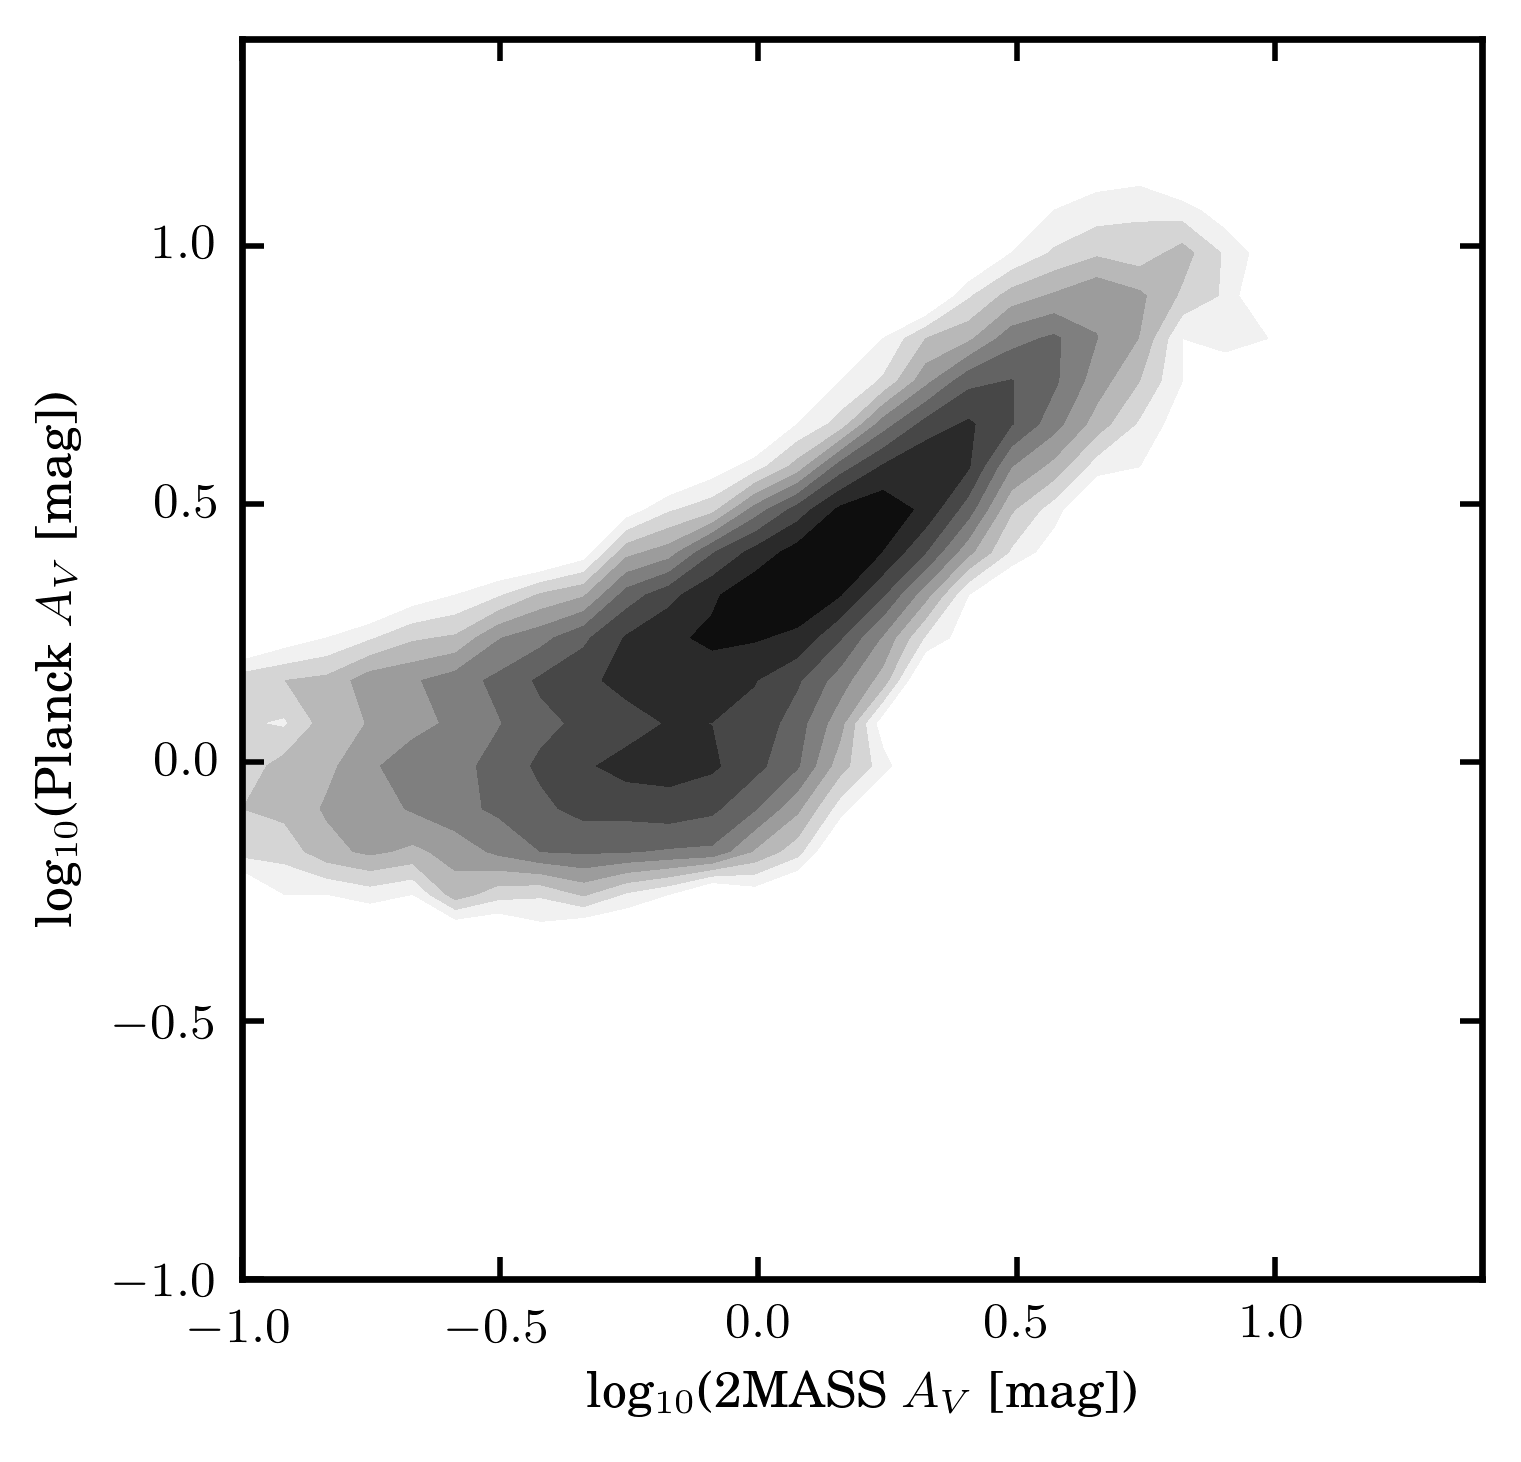
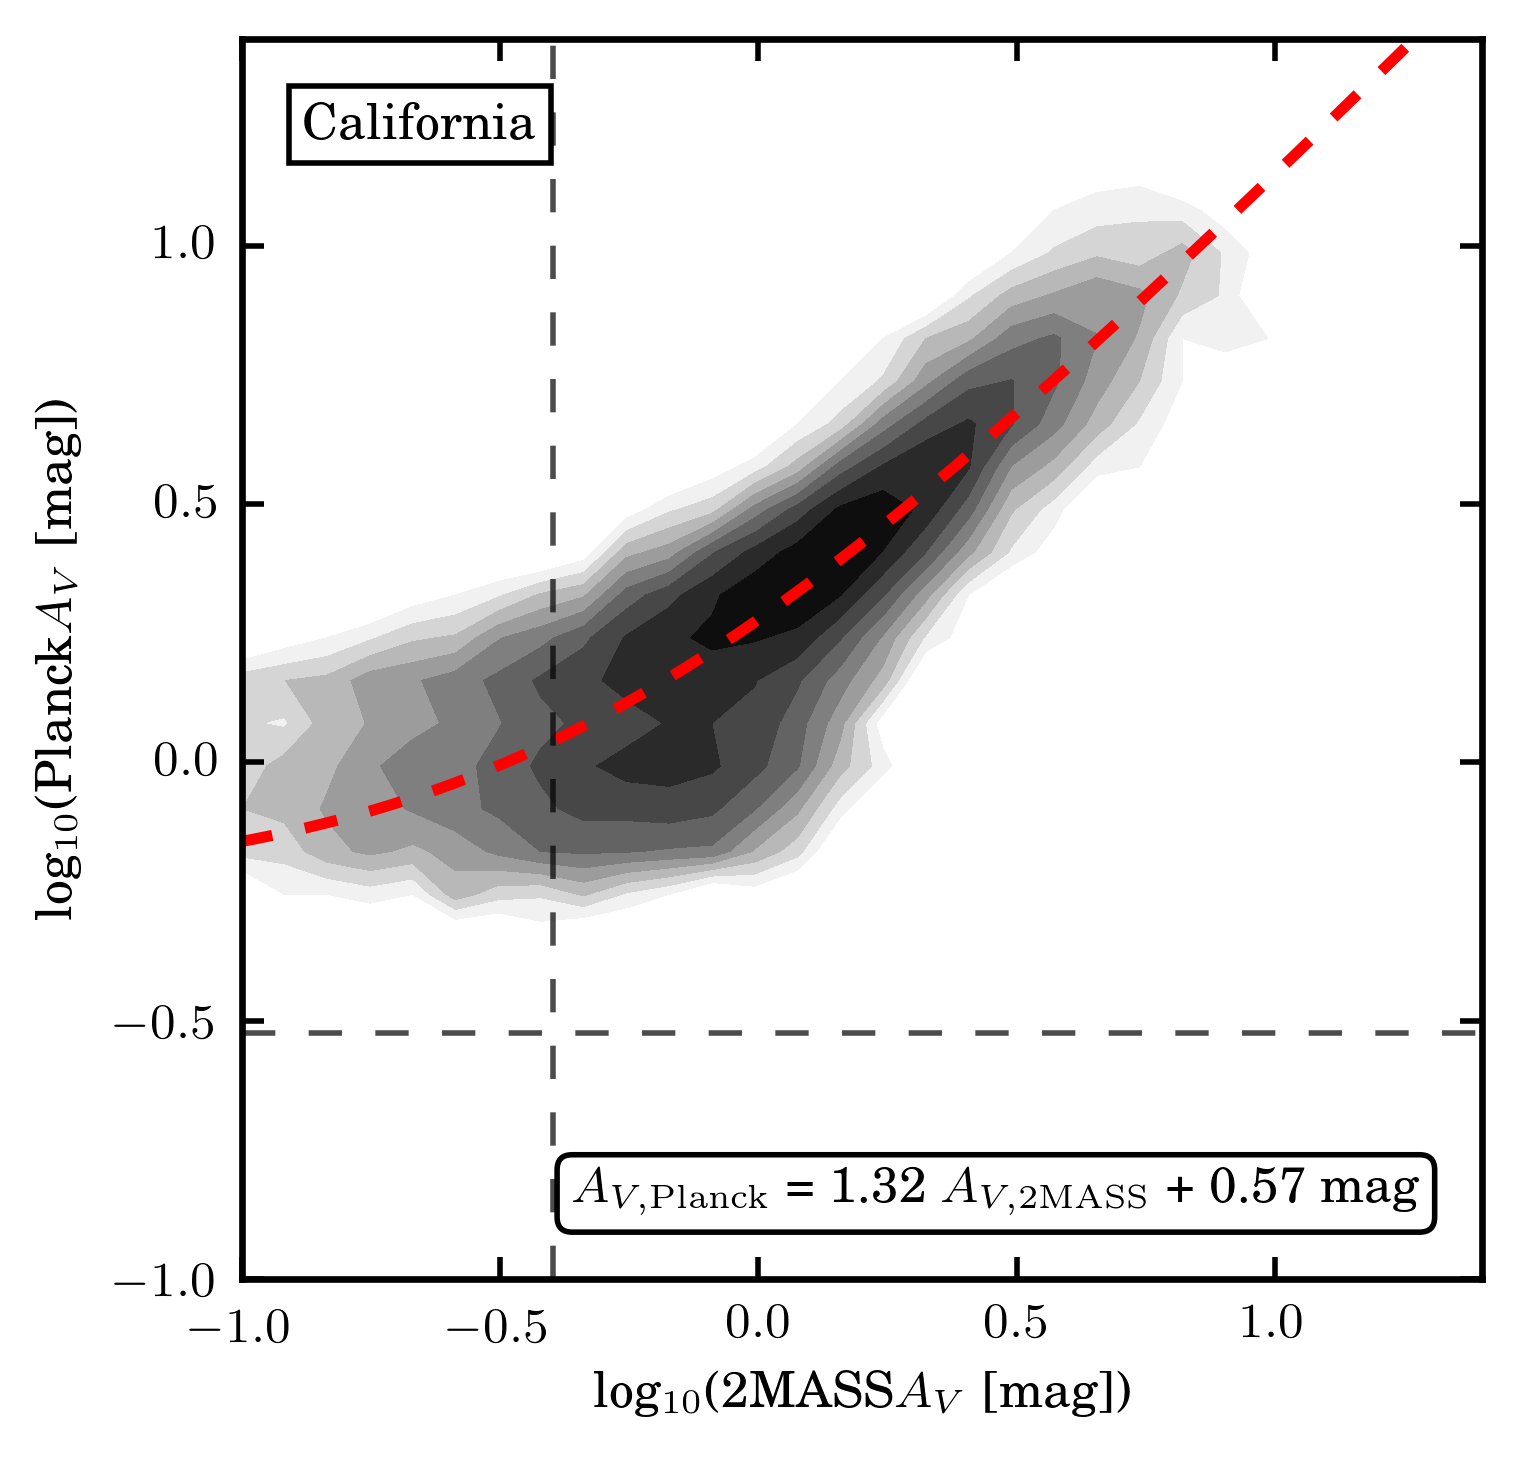
updated av comparison figs

diff --git a/_posts/2015-06-29-Data-Updates-and-Backgrounds.md b/_posts/2015-06-29-Data-Updates-and-Backgrounds.md
@@ -30,6 +30,11 @@ subtraction...something is wrong. At least the intercept is positive!
 
 <img src="/images/2015-06-29/california_likelihood_planck_bin_scaled_wi.png" style=""/>
 
+## Relationship Between Planck, 2MASS, and Lee+12 $$A_V$$
+
+Below are relationships between Jouni Kainulainen's 2MASS, Planck
+$$\tau_{353}$$, and Lee+12 $$A_V$$ maps. The red lines are linear fits to the
+relationships. The black lines represent 1$$\sigma$$ uncertainties.
 
 ### Taurus
 
@@ -43,3 +48,4 @@ subtraction...something is wrong. At least the intercept is positive!
 
 <img src="/images/2015-06-29/perseus_av_2mass_planck_plot.png" style="width:100%"/>
 
+<img src="/images/2015-06-29/perseus_av_lee12_planck_plot.png" style="width:100%"/>
